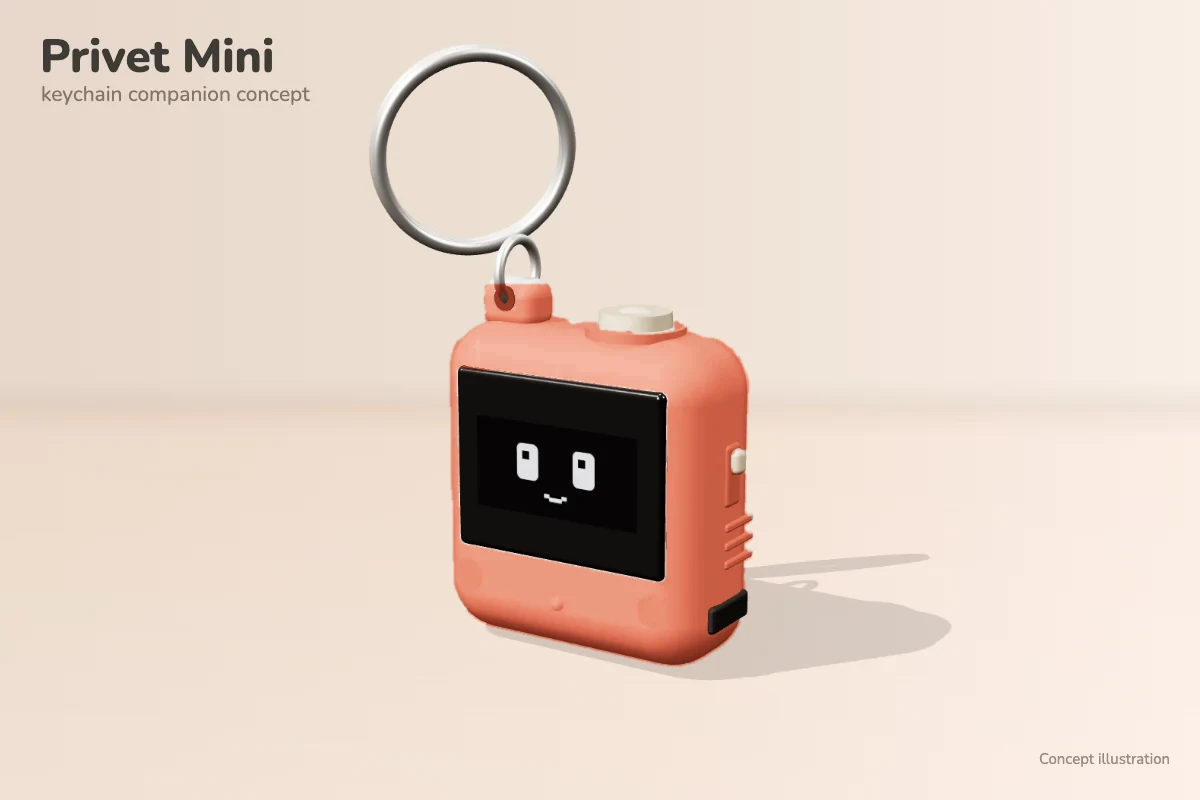
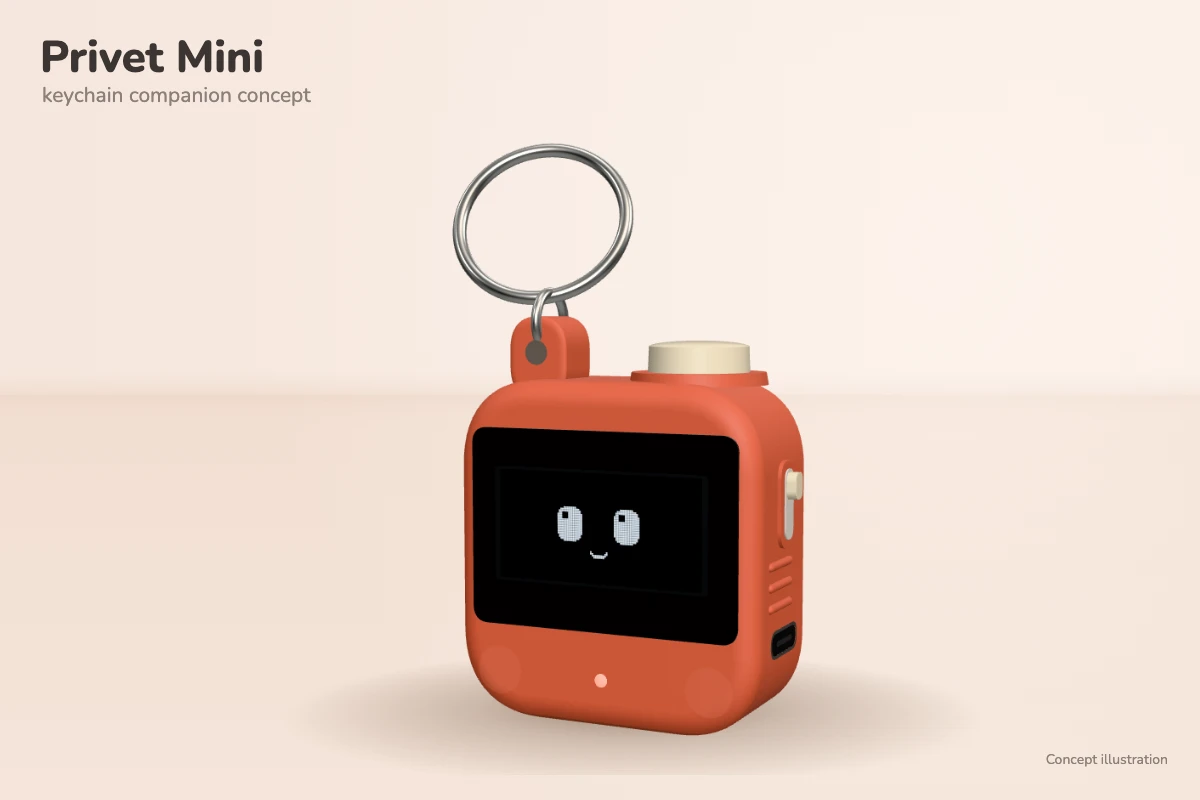
Mini remodel, USB-C port, white and coral 3D models

Changed region(s): [[0.3083, 0.0625, 0.8017, 0.9688], [0.0308, 0.0312, 0.2467, 0.125], [0.8633, 0.9375, 0.9867, 0.9688]]

diff --git a/src/robotScene.ts b/src/robotScene.ts
@@ -4,23 +4,27 @@ import {mergeVertices} from 'three/examples/jsm/utils/BufferGeometryUtils.js';
 import {CONNECTED_FACE_MS,OLED_HEIGHT,OLED_WIDTH,renderFirmwareFace,type FirmwareFace} from './oledFaces';
 import type {CompanionModel} from './bleProtocol';
 import {renderMiniFace} from './miniFaces';
+import {figurePalette,type DeviceColour,type FigurePalette} from './figureColours';
 
 // The physical companions as a small WebGL scene for the "companion found" card, each modelled on
 // its enclosure concept, with an OLED that shows the firmware's own faces.
-// desk: tapered coral PLA base on a screwed bottom lid, cream button, servo neck and a head that
+// Each figure comes in warm white or soft coral (figureColours.ts).
+// desk: tapered PLA base on a screwed bottom lid, cream button, servo neck and a head that
 //   turns with the firmware's servo curve.
-// mini: the white keychain (≈40×42×18 mm) with a cream top button, a lug with its split ring and
-//   key ring, a slide switch and vents on the right. No servo: it hops and its ring swings.
+// mini: the keychain (≈40×42×18 mm), after its concept illustration: a wide glossy glass panel
+//   low on the front with the OLED inset, a big cream top button, a lug with its split ring and
+//   key ring, and on the right a framed slide switch, vents and the charging port. No servo: it
+//   hops and its ring swings.
 //   Its screen shows the Mini's own faces (miniFaces.ts), not the desk robot's.
 // printer: the pocket thermal printer standing upright: one soft rounded body, glossy white at the
-//   front and mint at the back, meeting flush round the sides; the paper slot across the front, two
-//   mint cat ears and vent holes on top. No screen: on
+//   front and mint (or soft coral) at the back, meeting flush round the sides; the paper slot across the front, two
+//   cat ears in the shell colour and vent holes on top. No screen: on
 //   connect it hops, the LED on top lights and a paper strip printed "Privet" feeds out of the slot.
 export type RobotMood='sleeping'|'connected';
 export type FigureModel=CompanionModel|'printer';
 export type RobotScene={setMood:(mood:RobotMood)=>void;resize:(width:number,height:number)=>void;dispose:()=>void};
 
-const CORAL=0xd8684f,CREAM=0xeee2c6,WHITE=0xf3f1ec,PRINTER_MINT=0xa9e5e3;
+const CREAM=0xeee2c6;
 const DOT=4; // texture pixels per OLED pixel: a 3 px lit dot and a 1 px gap, like the real panel.
 
 function roundedRect(width:number,height:number,radius:number){
@@ -73,10 +77,10 @@ const add=<T extends Mesh>(parent:Group,mesh:T,x=0,y=0,z=0)=>{mesh.position.set(
 // animate: since = ms in the current mood; t = s since the entrance began. Returns the lift above the floor.
 // face: that companion's firmware faces.
 type Figure={root:Group;camera:{x:number;y:number;z:number;target:number};shadow:number;face:typeof renderFirmwareFace;animate:(mood:RobotMood,since:number,t:number)=>number};
-type Parts={glass:Material;reducedMotion:boolean};
+type Parts={glass:Material;reducedMotion:boolean;palette:FigurePalette};
 
-function deskFigure({glass,reducedMotion}:Parts):Figure{
- const plastic=pla(CORAL);
+function deskFigure({glass,reducedMotion,palette}:Parts):Figure{
+ const plastic=pla(palette.plastic);
  const robot=new Group();
  // Base: a pillowy body, wider at the bottom with a sloped front. Its rounded lower edge sits
  // into a flush bottom lid, leaving the slight overhang and seam of the printed enclosure.
@@ -129,29 +133,31 @@ function hop(since:number){
  const arc=(t:number,start:number,duration:number,height:number)=>{const x=(t-start)/duration;return x>0&&x<1?height*4*x*(1-x):0;};
  return arc(since,120,420,.2)+arc(since,540,200,.035);
 }
-function miniFigure({glass,reducedMotion}:Parts):Figure{
- const plastic=pla(WHITE);
+function miniFigure({glass,reducedMotion,palette}:Parts):Figure{
+ const plastic=pla(palette.plastic);
  const root=new Group(),device=new Group();root.add(device);
  const W=MINI_WIDTH,H=MINI_HEIGHT,D=MINI_DEPTH,FRONT=D/2,SIDE=W/2;
  add(device,new Mesh(slab(W,H,D,.36,.16,false),plastic),0,H/2);
- // Front: the OLED module behind a glossy black window, two blush cheeks and the status LED.
- const SCREEN_Y=1.08;
- const bezel=new MeshPhysicalMaterial({color:0x0b0a0a,roughness:.18,clearcoat:1,clearcoatRoughness:.08});
- add(device,new Mesh(slab(1.2,.9,.03,.07,.012,false),bezel),0,SCREEN_Y,FRONT);
- add(device,new Mesh(new ShapeGeometry(roundedRect(.98,.56,.03),6),new MeshStandardMaterial({color:0x151617,roughness:.4})),0,SCREEN_Y+.01,FRONT+.018);
- add(device,new Mesh(new PlaneGeometry(.92,.46),glass),0,SCREEN_Y+.01,FRONT+.021);
- const blush=new MeshStandardMaterial({color:0xf5d3c8,roughness:.8,transparent:true,opacity:.5});
- for(const x of [-.5,.5])add(device,new Mesh(new CircleGeometry(.11,40),blush),x,.34,FRONT+.001);
+ // Front, after the concept illustration: a wide glossy black glass panel set low on the front, with
+ // a bevelled rim catching the light, the 2:1 OLED inset in it, faint cheeks and the status LED.
+ const SCREEN_Y=.96,PANEL_W=W*.88,PANEL_H=H*.58;
+ const bezel=new MeshPhysicalMaterial({color:0x080707,roughness:.14,clearcoat:1,clearcoatRoughness:.05});
+ add(device,new Mesh(slab(PANEL_W,PANEL_H,.04,.07,.016,false),bezel),0,SCREEN_Y,FRONT-.012);
+ add(device,new Mesh(new ShapeGeometry(roundedRect(PANEL_W*.8,PANEL_W*.4,.02),6),new MeshStandardMaterial({color:0x1c1d1f,roughness:.5})),0,SCREEN_Y+.02,FRONT+.026);
+ add(device,new Mesh(new PlaneGeometry(PANEL_W*.76,PANEL_W*.38),glass),0,SCREEN_Y+.02,FRONT+.029);
+ const blush=new MeshStandardMaterial({color:palette.blush??0xf2cfc4,roughness:.8,transparent:true,opacity:.22});
+ for(const x of [-.56,.56])add(device,new Mesh(new CircleGeometry(.12,40),blush),x,.24,FRONT+.001);
  const led=new MeshStandardMaterial({color:0xf8c4a6,roughness:.35,emissive:0xff7a3a,emissiveIntensity:0});
- const ledDome=add(device,new Mesh(new SphereGeometry(.036,24,12,0,Math.PI*2,0,Math.PI/2),led),0,.3,FRONT);ledDome.rotation.x=Math.PI/2;ledDome.scale.set(1,.5,1);
- // Top right: the big click button, a cream cap on a raised white boss.
+ const ledDome=add(device,new Mesh(new SphereGeometry(.034,24,12,0,Math.PI*2,0,Math.PI/2),led),0,.24,FRONT);ledDome.rotation.x=Math.PI/2;ledDome.scale.set(1,.5,1);
+ // Top right: the big click button, a thick cream cap on a wide, low white collar.
  const cream=new MeshPhysicalMaterial({color:CREAM,roughness:.38,clearcoat:.35,clearcoatRoughness:.4});
- add(device,new Mesh(new CylinderGeometry(.25,.27,.07,48),plastic),.3,H+.015);
- add(device,new Mesh(new CylinderGeometry(.185,.19,.08,48),cream),.3,H+.085);
- const cap=add(device,new Mesh(new SphereGeometry(.185,48,16,0,Math.PI*2,0,Math.PI/2),cream),.3,H+.124);cap.scale.set(1,.16,1);
+ const BUTTON_X=.34,BUTTON_Z=-.04;
+ add(device,new Mesh(new CylinderGeometry(.33,.34,.06,56),plastic),BUTTON_X,H+.01,BUTTON_Z);
+ add(device,new Mesh(new CylinderGeometry(.245,.25,.13,56),cream),BUTTON_X,H+.1,BUTTON_Z);
+ const cap=add(device,new Mesh(new SphereGeometry(.245,56,16,0,Math.PI*2,0,Math.PI/2),cream),BUTTON_X,H+.163,BUTTON_Z);cap.scale.set(1,.12,1);
  // Top left: the keyring lug with its hole, a small split ring through it and the big key ring.
  const LUG_X=-.46,HOLE_Y=H+.13;
- add(device,new Mesh(slab(.42,.4,.3,.15,.06,false),plastic),LUG_X,H+.1);
+ add(device,new Mesh(slab(.32,.42,.28,.15,.06,false),plastic),LUG_X,H+.1);
  const hole=new MeshStandardMaterial({color:0x6b625c,roughness:.9});
  for(const z of [.151,-.151]){const disc=add(device,new Mesh(new CircleGeometry(.062,24),hole),LUG_X,HOLE_Y,z);if(z<0)disc.rotation.y=Math.PI;}
  const metal=new MeshStandardMaterial({color:0xd8d8d4,metalness:1,roughness:.22});
@@ -159,11 +165,23 @@ function miniFigure({glass,reducedMotion}:Parts):Figure{
  // The key ring hangs from the top of the loop, leaning left and back; it swings about that point.
  const pivot=new Group();pivot.position.set(LUG_X,HOLE_Y+2*LOOP-.02,0);device.add(pivot);
  const ring=add(pivot,new Mesh(new TorusGeometry(RING_RADIUS,.036,20,120),metal),0,RING_RADIUS);ring.rotation.y=.25;
- // Right side: slide switch in its slot and three vent ribs.
- const dark=new MeshStandardMaterial({color:0x1d1b1a,roughness:.7});
- add(device,new Mesh(slab(.03,.3,.12,.012,.006,false),dark),SIDE-.008,.98);
- add(device,new Mesh(slab(.08,.13,.09,.03,.014,false),cream),SIDE+.012,1.02);
- for(const y of [.5,.6,.7]){const rib=add(device,new Mesh(new CapsuleGeometry(.022,.22,6,16),plastic),SIDE-.004,y);rib.rotation.x=Math.PI/2;}
+ // Right side: the slide switch in a raised white frame (cream knob at the top of its track), three
+ // vent ribs below it and the USB-C charging port, all on the flat part of the side.
+ const recess=new MeshStandardMaterial({color:0xd6d2cb,roughness:.7});
+ // Side parts are front-facing slabs turned a quarter: their rounding then faces sideways.
+ const side=(w:number,h:number,t:number,r:number,material:Material,x:number,y:number,z=0)=>{const part=add(device,new Mesh(slab(w,h,t,r,Math.min(r,t)*.4,false),material),x,y,z);part.rotation.y=Math.PI/2;return part;};
+ side(.2,.42,.05,.08,plastic,SIDE-.006,1.1);
+ side(.11,.34,.03,.05,recess,SIDE+.012,1.1);
+ side(.1,.13,.09,.04,cream,SIDE+.03,1.19);
+ for(const y of [.62,.72,.82]){const rib=add(device,new Mesh(new CapsuleGeometry(.022,.26,6,16),plastic),SIDE-.004,y,.06);rib.rotation.x=Math.PI/2;}
+ // USB-C, set into the side (8.4 × 2.6 mm at this scale): the dark stadium opening, a thin metal
+ // shell round it and the contact tongue inside, lying on the surface rather than standing off it.
+ const PORT_W=.34,PORT_H=.105,usb=new Group();usb.position.set(SIDE+.001,.44,0);usb.rotation.y=Math.PI/2;device.add(usb);
+ const stadium=(w:number,h:number)=>roundedRect(w,h,h/2*.999);
+ const shellShape=stadium(PORT_W+.032,PORT_H+.032);shellShape.holes.push(stadium(PORT_W,PORT_H));
+ add(usb,new Mesh(new ShapeGeometry(stadium(PORT_W,PORT_H),16),new MeshStandardMaterial({color:0x0c0c0d,roughness:.6})),0,0,0);
+ add(usb,new Mesh(new ShapeGeometry(shellShape,16),new MeshStandardMaterial({color:0xbdbcb8,metalness:.9,roughness:.3})),0,0,.002);
+ add(usb,new Mesh(new ShapeGeometry(roundedRect(PORT_W*.62,.026,.01),4),new MeshStandardMaterial({color:0x3a3a3c,roughness:.5})),0,0,.003);
 
  let swing=0,swingVelocity=0,last=0;
  return {root,camera:{x:0,y:2,z:7.6,target:1.38},shadow:1.15,face:renderMiniFace,animate(mood,since,t){
@@ -228,14 +246,15 @@ function paperTexture(){
  for(const [y,w] of [[100,180],[120,140],[140,160],[160,120]])ctx.fillRect(128-w/2,y,w,5);
  const texture=new CanvasTexture(canvas);texture.colorSpace=SRGBColorSpace;return texture;
 }
-function printerFigure({reducedMotion}:Parts):Figure{
+function printerFigure({reducedMotion,palette}:Parts):Figure{
+ const SHELL=palette.shell??0xa9e5e3;
  const root=new Group(),device=new Group();root.add(device);
  const W=PRINTER_W,H=PRINTER_H,D=PRINTER_D,FRONT=D/2;
  // One body: white in front of the split, mint behind it, blended over a hair so the line is clean.
  const body=slab(W,H,D,.5,.22,false,40);
  const SPLIT=D*.1,BLEND=.012,position=body.getAttribute('position'),colors:number[]=[];
  // Vertex colours are linear: Color converts the sRGB hex.
- const mintLinear=new Color(PRINTER_MINT),whiteColor=[1,1,1],mintColor=[mintLinear.r,mintLinear.g,mintLinear.b];
+ const mintLinear=new Color(SHELL),frontLinear=new Color(palette.plastic),whiteColor=[frontLinear.r,frontLinear.g,frontLinear.b],mintColor=[mintLinear.r,mintLinear.g,mintLinear.b];
  for(let i=0;i<position.count;i++){
   const t=Math.min(1,Math.max(0,(position.getZ(i)-SPLIT+BLEND)/(2*BLEND))),k=t*t*(3-2*t);
   colors.push(...mintColor.map((m,c)=>m+(whiteColor[c]-m)*k));
@@ -247,12 +266,12 @@ function printerFigure({reducedMotion}:Parts):Figure{
  const slot=add(device,new Mesh(new CapsuleGeometry(.022,W-.5,6,16),new MeshStandardMaterial({color:0x3a3e43,roughness:.8})),0,SLOT_Y,FRONT-.005);slot.rotation.z=Math.PI/2;
  const lip=add(device,new Mesh(new CapsuleGeometry(.018,W-.46,6,16),shell),0,SLOT_Y+.035,FRONT-.002);lip.rotation.z=Math.PI/2;
  // Cat ears on the mint top corners, vent holes and the status LED between them.
- const mint=new MeshPhysicalMaterial({color:PRINTER_MINT,roughness:.32,clearcoat:.6,clearcoatRoughness:.2});
+ const mint=new MeshPhysicalMaterial({color:SHELL,roughness:.32,clearcoat:.6,clearcoatRoughness:.2});
  // Ears: full rounded domes sunk well into the shell, so they grow out of the top with no gap.
  for(const x of [-W/2+.4,W/2-.4]){const ear=add(device,new Mesh(new SphereGeometry(.2,40,24),mint),x,H-.06,-D*.12);ear.scale.set(1,.92,.78);}
- const hole=new MeshStandardMaterial({color:0x5a6d6c,roughness:.9});
+ const hole=new MeshStandardMaterial({color:palette.holes??0x5a6d6c,roughness:.9});
  for(const [x,z] of [[-.12,-.24],[0,-.24],[.12,-.24]]){const dot=add(device,new Mesh(new CircleGeometry(.026,16),hole),x,H+.001,z);dot.rotation.x=-Math.PI/2;}
- const led=new MeshStandardMaterial({color:0xdff3f1,roughness:.35,emissive:0x3fd6c8,emissiveIntensity:0});
+ const led=new MeshStandardMaterial({color:palette.led??0xdff3f1,roughness:.35,emissive:0x3fd6c8,emissiveIntensity:0});
  const ledDome=add(device,new Mesh(new SphereGeometry(.035,24,12,0,Math.PI*2,0,Math.PI/2),led),.26,H,-.24);ledDome.scale.set(1,.5,1);
  // The printed face on the upper front and the Privet wordmark below the slot.
  add(device,new Mesh(new PlaneGeometry(1.3,.73),decal(printerFace())),0,1.33,FRONT+.004);
@@ -288,7 +307,7 @@ function printerFigure({reducedMotion}:Parts):Figure{
 }
 
 // onReady: called once the first frame is on the canvas; the entrance starts from that frame.
-export function createRobotScene(canvas:HTMLCanvasElement,{model='desk',reducedMotion=false,onReady}:{model?:FigureModel;reducedMotion?:boolean;onReady?:()=>void}={}):RobotScene{
+export function createRobotScene(canvas:HTMLCanvasElement,{model='desk',colour,reducedMotion=false,onReady}:{model?:FigureModel;colour?:DeviceColour;reducedMotion?:boolean;onReady?:()=>void}={}):RobotScene{
  const renderer=new WebGLRenderer({canvas,antialias:true,alpha:true,powerPreference:'low-power'});
  renderer.setPixelRatio(Math.min(window.devicePixelRatio||1,2));
  renderer.outputColorSpace=SRGBColorSpace;renderer.toneMapping=NeutralToneMapping;renderer.toneMappingExposure=.95;
@@ -301,7 +320,7 @@ export function createRobotScene(canvas:HTMLCanvasElement,{model='desk',reducedM
  const faceCanvas=document.createElement('canvas');faceCanvas.width=OLED_WIDTH*DOT;faceCanvas.height=OLED_HEIGHT*DOT;
  const faceCtx=faceCanvas.getContext('2d')!;const faceTexture=new CanvasTexture(faceCanvas);faceTexture.colorSpace=SRGBColorSpace;faceTexture.anisotropy=4;
  const glass=new MeshPhysicalMaterial({color:0x000000,roughness:.12,clearcoat:1,clearcoatRoughness:.05,emissive:0xffffff,emissiveMap:faceTexture,emissiveIntensity:1.35});
- const figure=(model==='printer'?printerFigure:model==='mini'?miniFigure:deskFigure)({glass,reducedMotion});
+ const figure=(model==='printer'?printerFigure:model==='mini'?miniFigure:deskFigure)({glass,reducedMotion,palette:figurePalette(model,colour)});
  const robot=figure.root;scene.add(robot);
  const camera=new PerspectiveCamera(25,1,.1,50);camera.position.set(figure.camera.x,figure.camera.y,figure.camera.z);camera.lookAt(0,figure.camera.target,0);
  const shadow=new Mesh(new PlaneGeometry(3*figure.shadow,2.2*figure.shadow),new MeshBasicMaterial({map:shadowTexture(),transparent:true,depthWrite:false}));

diff --git a/src/Robot3D.tsx b/src/Robot3D.tsx
@@ -1,22 +1,24 @@
 import {useEffect,useRef,useState} from 'react';
 import {createRobotScene,type FigureModel,type RobotMood,type RobotScene} from './robotScene';
+import type {DeviceColour} from './figureColours';
 import {PrintIcon} from './Icons';
 import {OledFace} from './OledFace';
 
 // Loaded lazily (three.js stays out of the main bundle). Without WebGL it falls back to the flat face.
-export default function Robot3D({mood,model='desk'}:{mood:RobotMood;model?:FigureModel}){
+// colour: the device's body colour; omitted, each model shows its usual one.
+export default function Robot3D({mood,model='desk',colour}:{mood:RobotMood;model?:FigureModel;colour?:DeviceColour}){
  const canvas=useRef<HTMLCanvasElement>(null),scene=useRef<RobotScene|null>(null);
  const [failed,setFailed]=useState(false),[ready,setReady]=useState(false);
  useEffect(()=>{
   const element=canvas.current;if(!element)return;
   let robot:RobotScene;
-  try{robot=createRobotScene(element,{model,reducedMotion:!!window.matchMedia?.('(prefers-reduced-motion: reduce)').matches,onReady:()=>setReady(true)});}
+  try{robot=createRobotScene(element,{model,colour,reducedMotion:!!window.matchMedia?.('(prefers-reduced-motion: reduce)').matches,onReady:()=>setReady(true)});}
   catch{setFailed(true);return;}
   scene.current=robot;
   const observer=new ResizeObserver(([entry])=>{const {width,height}=entry.contentRect;if(width&&height)robot.resize(width,height);});
   observer.observe(element);
   return ()=>{observer.disconnect();scene.current=null;robot.dispose();};
- },[model]);
+ },[model,colour]);
  useEffect(()=>{scene.current?.setMood(mood);},[mood,model]);
  // The printer has no screen: without WebGL it shows a printer icon instead.
  return failed?(model==='printer'?<span className="robot-3d-fallback-printer"><PrintIcon/></span>:<OledFace mood={mood} model={model}/>):<canvas ref={canvas} className="robot-3d" data-ready={ready} aria-hidden="true"/>;

diff --git a/src/figureColours.ts b/src/figureColours.ts
@@ -1,0 +1,23 @@
+// Body colours of the 3D device figures: every device comes in warm white and soft coral. The scene
+// takes a colour per figure, so once a device reports its colour the app can show the right one;
+// until then each model shows its usual colour (DEFAULT_COLOUR).
+export type DeviceColour='white'|'coral';
+export type FigureKind='desk'|'mini'|'printer';
+export const DEVICE_COLOURS:readonly DeviceColour[]=['white','coral'];
+export const COLOUR_LABEL:Record<DeviceColour,string>={white:'Warm white',coral:'Soft coral'};
+
+// plastic: the printed body. Mini only: blush, the faint cheeks under its screen. Printer only:
+// shell (the back, sides and ears behind the white front), with the vent holes and LED body toned
+// to match it.
+export type FigurePalette={plastic:number;blush?:number;shell?:number;holes?:number;led?:number};
+const CORAL=0xd8684f,WHITE=0xf3f1ec;
+export const FIGURE_PALETTES:Record<FigureKind,Record<DeviceColour,FigurePalette>>={
+ desk:{white:{plastic:WHITE},coral:{plastic:CORAL}},
+ mini:{white:{plastic:WHITE,blush:0xf2cfc4},coral:{plastic:CORAL,blush:0xe9846f}},
+ printer:{
+  white:{plastic:0xffffff,shell:0xa9e5e3,holes:0x5a6d6c,led:0xdff3f1},
+  coral:{plastic:0xffffff,shell:0xec9a82,holes:0x7d5b52,led:0xf7e4dd},
+ },
+};
+export const DEFAULT_COLOUR:Record<FigureKind,DeviceColour>={desk:'coral',mini:'white',printer:'white'};
+export const figurePalette=(model:FigureKind,colour:DeviceColour=DEFAULT_COLOUR[model])=>FIGURE_PALETTES[model][colour]??FIGURE_PALETTES[model][DEFAULT_COLOUR[model]];

diff --git a/src/figureColours.test.ts b/src/figureColours.test.ts
@@ -1,0 +1,25 @@
+import test from 'node:test';
+import assert from 'node:assert/strict';
+import {COLOUR_LABEL,DEFAULT_COLOUR,DEVICE_COLOURS,FIGURE_PALETTES,figurePalette,type FigureKind} from './figureColours.ts';
+
+const kinds:FigureKind[]=['desk','mini','printer'];
+test('every device has a warm white and a soft coral 3D palette, and they differ',()=>{
+ for(const kind of kinds){
+  for(const colour of DEVICE_COLOURS)assert.ok(Number.isInteger(FIGURE_PALETTES[kind][colour].plastic),`${kind} ${colour}`);
+  const {white,coral}=FIGURE_PALETTES[kind];
+  assert.notDeepEqual(white,coral,kind);
+ }
+ // The printer keeps its white front in both; only the shell, holes and LED body change.
+ assert.equal(FIGURE_PALETTES.printer.white.plastic,FIGURE_PALETTES.printer.coral.plastic);
+ assert.notEqual(FIGURE_PALETTES.printer.white.shell,FIGURE_PALETTES.printer.coral.shell);
+ assert.deepEqual(COLOUR_LABEL,{white:'Warm white',coral:'Soft coral'});
+});
+test('without a reported colour each model keeps its usual look; a reported colour picks its palette',()=>{
+ assert.deepEqual(DEFAULT_COLOUR,{desk:'coral',mini:'white',printer:'white'});
+ for(const kind of kinds){
+  assert.equal(figurePalette(kind),FIGURE_PALETTES[kind][DEFAULT_COLOUR[kind]]);
+  for(const colour of DEVICE_COLOURS)assert.equal(figurePalette(kind,colour),FIGURE_PALETTES[kind][colour]);
+ }
+ // An unknown value (e.g. from newer firmware) falls back instead of breaking the figure.
+ assert.equal(figurePalette('mini','teal' as never),FIGURE_PALETTES.mini.white);
+});

diff --git a/src/CompanionGallery.tsx b/src/CompanionGallery.tsx
@@ -10,8 +10,8 @@ export const conceptDevices=[
   coral:{src:'images/companion-coral.webp',alt:'Coral desk companion concept, showing the enclosed smiling robot alongside an open rear view of a conceptual OLED, head servo, and ESP32 layout.'},
  }},
  {id:'mini',name:'Privet Mini',images:{
-  white:{src:'images/companion-mini.webp',alt:'White Privet Mini keychain companion concept: a small body with a black OLED face, a cream top button and a key ring.'},
-  coral:{src:'images/companion-mini-coral.webp',alt:'Soft coral Privet Mini keychain companion concept: a small body with a black OLED face, a cream top button and a key ring.'},
+  white:{src:'images/companion-mini-white.webp',alt:'Warm white Privet Mini keychain companion concept, rendered from the app’s 3D model: a wide glass screen with a smiling OLED face, a big cream top button, a side switch and a key ring.'},
+  coral:{src:'images/companion-mini-coral.webp',alt:'Soft coral Privet Mini keychain companion concept, rendered from the app’s 3D model: a wide glass screen with a smiling OLED face, a big cream top button, a side switch and a key ring.'},
  }},
  {id:'printer',name:'Printer body',images:{
   white:{src:'images/printer-concept.webp',alt:'Privet printer concept body, rendered from the app’s 3D model: a white front with a printed cat face and the Privet wordmark, mint shell and ears.'},

diff --git a/README.md b/README.md
@@ -80,10 +80,10 @@ Warm white and soft coral explorations of each device: the optional desk compani
 | | Warm white | Soft coral |
 | --- | --- | --- |
 | Desk companion | [![White desk companion concept with enclosed and open rear views](public/images/companion-white.webp)](public/images/companion-white.webp) | [![Coral desk companion concept with enclosed and open rear views](public/images/companion-coral.webp)](public/images/companion-coral.webp) |
-| Privet Mini | [![White Privet Mini keychain companion concept with its key ring](public/images/companion-mini.webp)](public/images/companion-mini.webp) | [![Soft coral Privet Mini keychain companion concept with its key ring](public/images/companion-mini-coral.webp)](public/images/companion-mini-coral.webp) |
+| Privet Mini | [![Warm white Privet Mini keychain companion concept with its key ring](public/images/companion-mini-white.webp)](public/images/companion-mini-white.webp) | [![Soft coral Privet Mini keychain companion concept with its key ring](public/images/companion-mini-coral.webp)](public/images/companion-mini-coral.webp) |
 | Privet printer | [![Privet printer concept body with its cat face, Privet wordmark and mint shell](public/images/printer-concept.webp)](public/images/printer-concept.webp) | [![Privet printer concept body with its cat face, Privet wordmark and soft coral shell](public/images/printer-concept-coral.webp)](public/images/printer-concept-coral.webp) |
 
-The desk companion pictures and the white Mini were supplied by the project creator. The soft coral Mini is that same illustration with the body recoloured (screen, ring, button and background untouched), matched to the coral desk companion. Both printer pictures are rendered from the app's own 3D model (the one in its "printer found" card); the coral one swaps the mint shell and ears for soft coral. The images live in `public/images/`. On the website, the concept gallery shows one card per device with a Warm white / Soft coral switch; click a picture to open a same-page viewer with the same switch. Close with the close button, Escape, or the backdrop; left/right arrow keys move between devices. README image links open the original files.
+The desk companion pictures were supplied by the project creator. The Mini and printer pictures, in both colours, are rendered from the app's own 3D models (the ones in the "found" cards), so each colour switch shows the same model; the creator's original white Mini illustration is kept as `public/images/companion-mini.webp`. Every 3D model has a warm white and a soft coral version (`src/figureColours.ts`), ready for when a device reports its colour; until then the app shows each model in its usual colour (desk companion coral, Mini white, printer white and mint). The images live in `public/images/`. On the website, the concept gallery shows one card per device with a Warm white / Soft coral switch; click a picture to open a same-page viewer with the same switch. Close with the close button, Escape, or the backdrop; left/right arrow keys move between devices. README image links open the original files.
 
 ## Website
 
@@ -178,6 +178,7 @@ Statistics use `privet-demo-v1-native-stats`; resumable sessions have separate k
 | `src/bleDriver.ts`, `src/usePhysicalCompanion.ts` | Installed BLE plugin adapter and app-wide native lifecycle wiring |
 | `src/physicalLessonEvents.ts`, `src/PhysicalCompanionSettings.tsx` | Accepted lesson-to-BLE mapping; connection/test UI, companion list and home status |
 | `src/CompanionFoundCard.tsx`, `src/Robot3D.tsx`, `src/robotScene.ts` | "Companion found" card with a lazily loaded three.js figure of the desk robot, the keychain Mini or the thermal printer and its wake-up animation |
+| `src/figureColours.ts` | Warm white and soft coral palettes for every 3D figure, and each model's usual colour until a device reports its own |
 | `src/printerProtocol.ts`, `src/printerTransport.ts`, `src/printerDriver.ts`, `src/usePrinter.ts` | Thermal printer protocol, paced sending with flow control, plugin adapter and app-wide hook (remembered printer, darkness, auto-reconnect); see [docs/thermal-printer.md](docs/thermal-printer.md) |
 | `src/bleShared.ts`, `src/bleNative.ts` | The BLE plugin's shared state: one initialization, one shared scan with per-device leases, the Bluetooth-enabled fan-out |
 | `src/printContent.ts`, `src/printRender.ts`, `src/PrinterScreen.tsx`, `src/PrinterFoundCard.tsx`, `src/foundCards.ts` | Printed card content and canvas drawing; Settings → Printer and the print sheet; "printer found" card |
